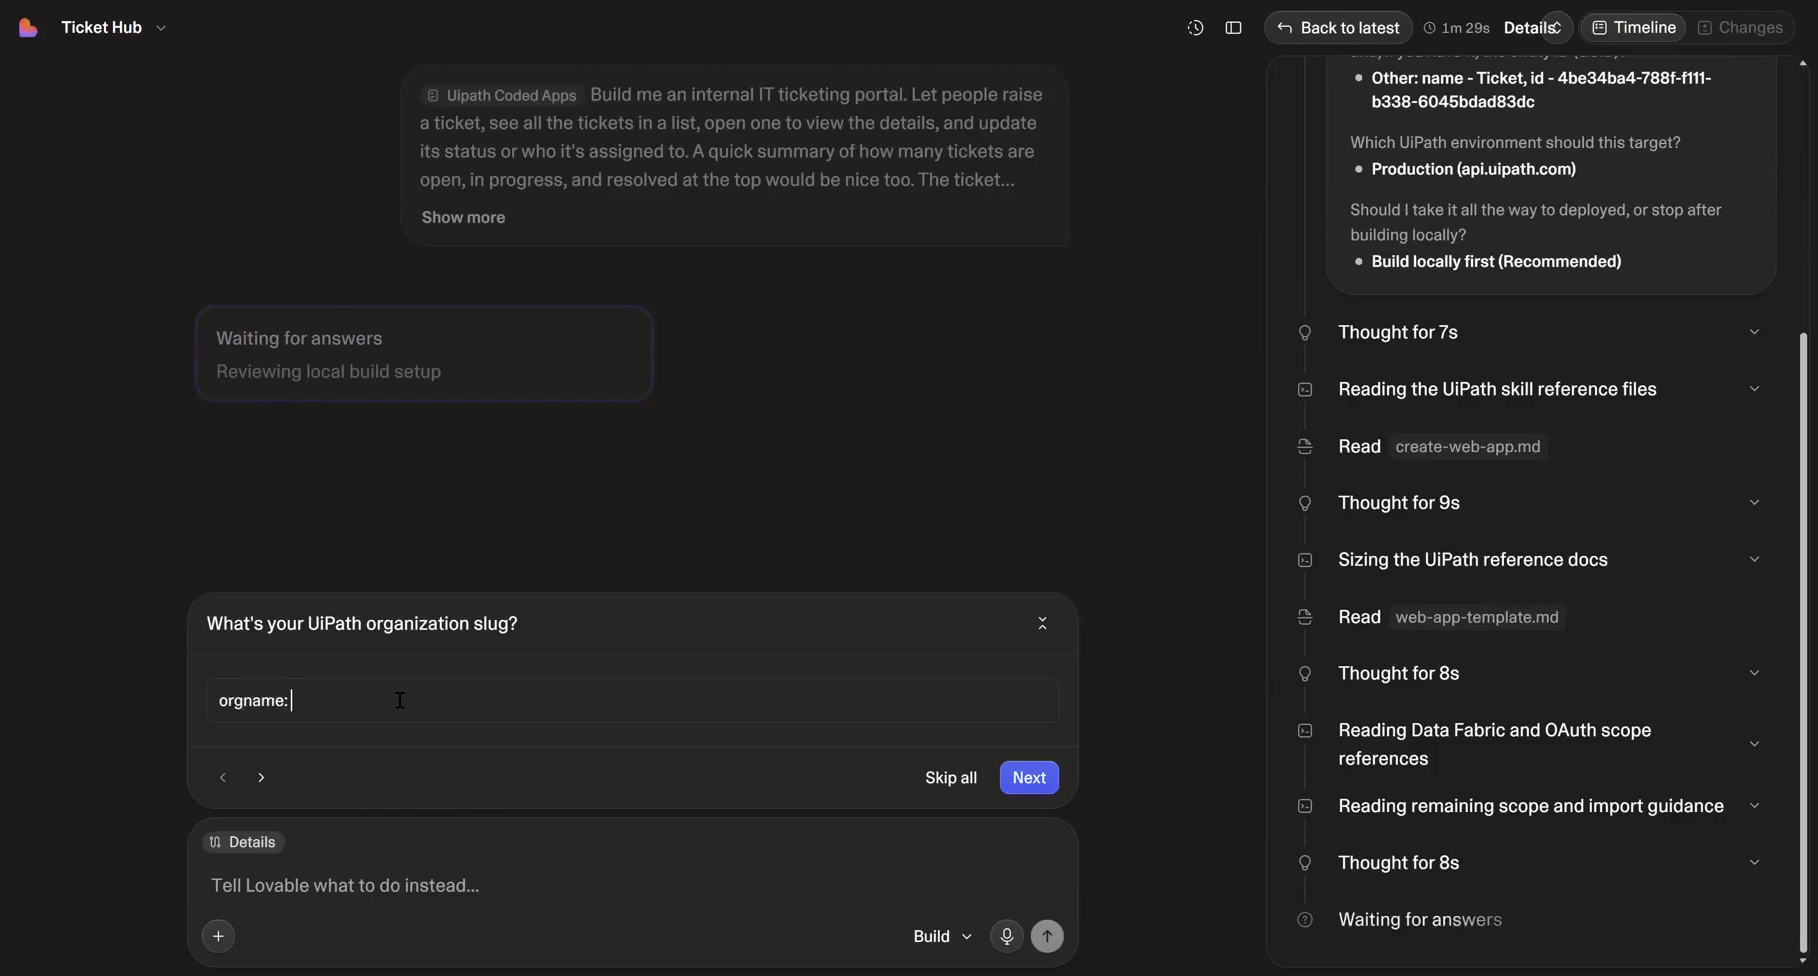
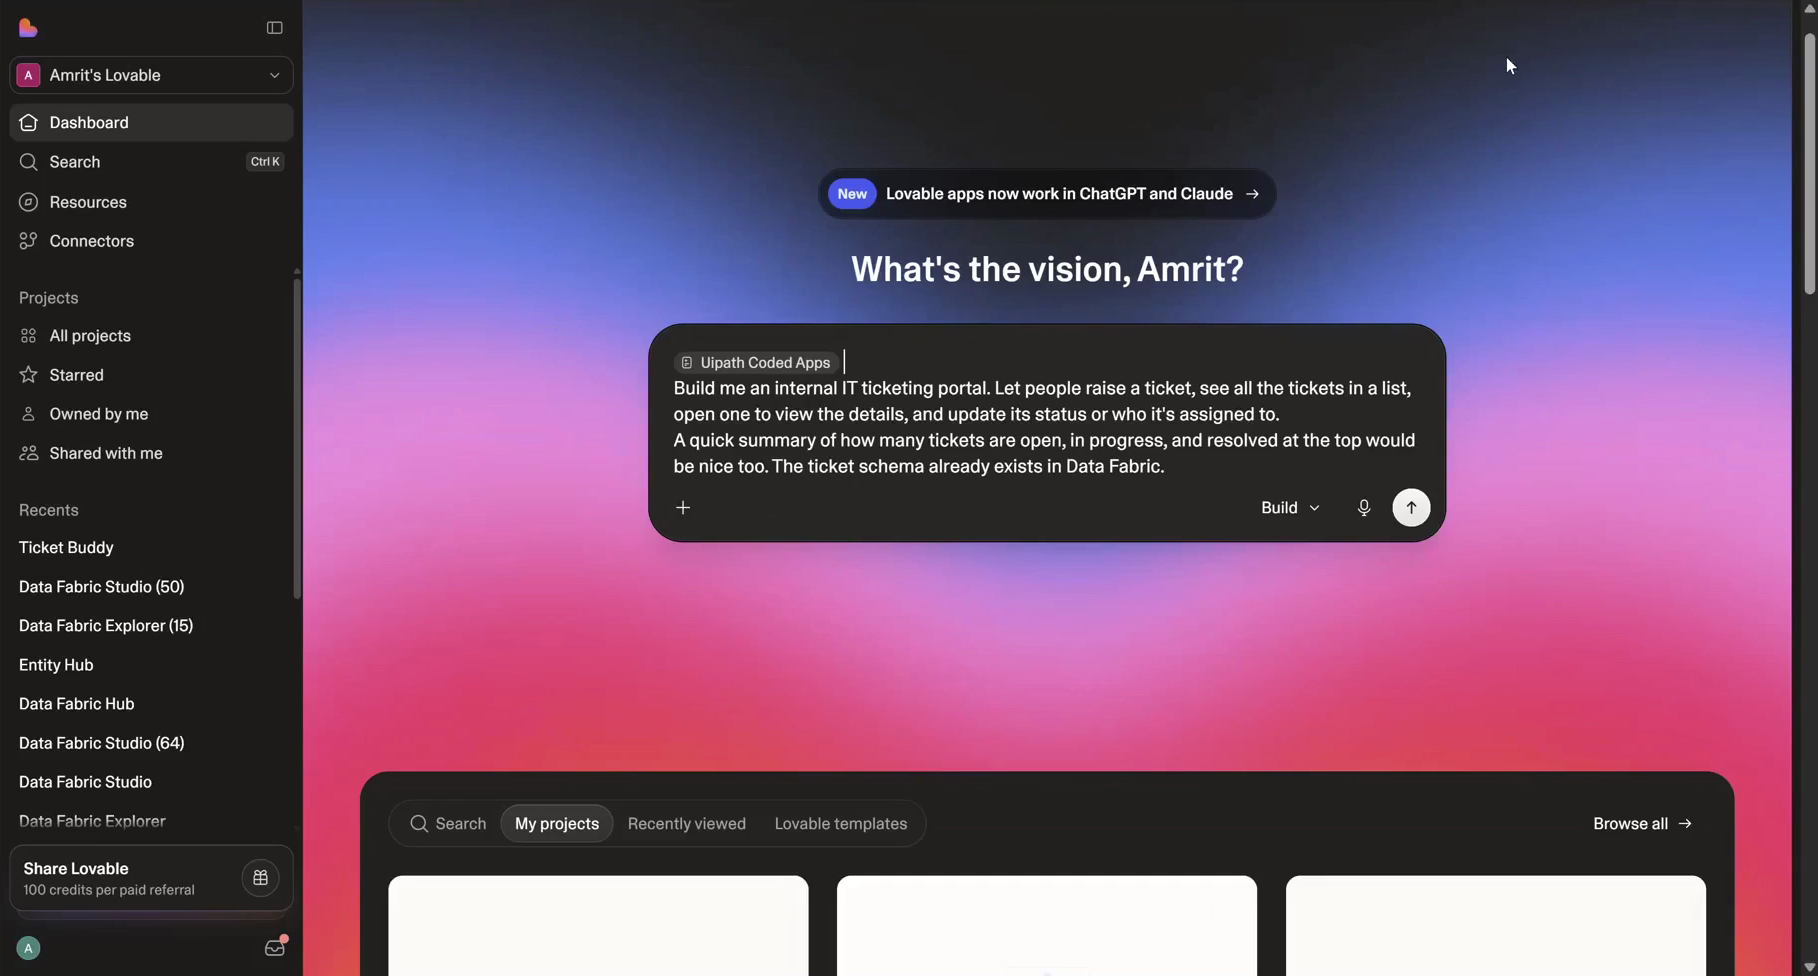
docs(ai-app-builders): drop templated build prompt, show the deployed app
The Step 2 prompt template ("Build a <app> as a UiPath coded app using the
uipath-coded-apps skill") isn't how any of the demos actually work — you
load the skill, then describe the app in plain language, which is what
every screenshot shows. Replace the code block with that instruction.

Also add the signed-in deployed app to Bolt, Replit and Lovable, which
previously ended at the deploy log; only Vercel showed the finished
result.

Swap the Lovable Step 2 screenshot for one showing the prompt with the
skill chip attached, rather than a mid-flow clarifying question.

diff --git a/docs/ai-app-builders/lovable.md b/docs/ai-app-builders/lovable.md
@@ -40,15 +40,11 @@ Use the UiPath coded-apps skill at https://github.com/UiPath/skills/blob/main/sk
 
 ## Step 2 — Build your app
 
-Prompt Lovable to build your app — plain language is enough:
-
-```text
-Build a <describe your app> as a UiPath coded app using the uipath-coded-apps skill.
-```
+With the skill loaded, just describe the app you want in plain language — there is no special wording or UiPath boilerplate to add. The skill handles the coded-app scaffolding for you.
 
 The builder asks for the connection details it needs — organization, tenant, Data Fabric entity, and the public app's client ID — as it goes, so you don't supply them up front.
 
-![Lovable asking for the UiPath organization slug after the prompt is sent](../assets/ai-app-builders/lovable-prompt.png)
+![The prompt in Lovable with the skill chip and the app described in plain language](../assets/ai-app-builders/lovable-prompt.png)
 
 !!! warning "Must be a static SPA"
     Coded apps are static sites — the build must emit `index.html` at the **dist root**. The skill scaffolds this for you. If Lovable defaults to a **server-rendered** app (for example TanStack Start), switch it to a **static SPA** build (enable SPA mode) so `npm run build` emits `index.html` at the dist root — otherwise `uip codedapp pack` will reject it.
@@ -78,6 +74,10 @@ https://<org>.uipath.host/<app-name>
 ```
 
 ![Lovable reporting the app deployed to the Shared folder, with the live URL and each deploy step listed](../assets/ai-app-builders/lovable-deploy.png)
+
+Open that URL and sign in to see the finished app:
+
+![The deployed ticketing app running at its uipath.host URL, signed in and listing real tickets](../assets/ai-app-builders/lovable-deploy1.png)
 
 ---
 

diff --git a/docs/ai-app-builders/replit.md b/docs/ai-app-builders/replit.md
@@ -40,11 +40,7 @@ Use the UiPath coded-apps skill at https://github.com/UiPath/skills/blob/main/sk
 
 ## Step 2 — Build your app
 
-Prompt Replit to build your app — plain language is enough:
-
-```text
-Build a <describe your app> as a UiPath coded app using the uipath-coded-apps skill.
-```
+With the skill loaded, just describe the app you want in plain language — there is no special wording or UiPath boilerplate to add. The skill handles the coded-app scaffolding for you.
 
 The builder asks for the connection details it needs — organization, tenant, Data Fabric entity, and the public app's client ID — as it goes, so you don't supply them up front.
 
@@ -78,6 +74,10 @@ https://<org>.uipath.host/<app-name>
 ```
 
 ![Replit reporting pack, publish and deploy all succeeded, with the deployed portal running alongside it](../assets/ai-app-builders/replit-deploy.png)
+
+Open that URL and sign in to see the finished app:
+
+![The deployed ticketing app running at its uipath.host URL, signed in and listing real tickets](../assets/ai-app-builders/replit-deploy1.png)
 
 !!! tip "Alternative — run the deploy yourself"
     If prompting gives you trouble (secrets not visible to the shell, agent stuck mid-deploy), open the **Shell** and run the same steps by hand:

diff --git a/docs/ai-app-builders/bolt.md b/docs/ai-app-builders/bolt.md
@@ -56,11 +56,7 @@ Use the UiPath coded-apps skill at https://github.com/UiPath/skills/blob/main/sk
 
 ## Step 2 — Build your app
 
-Prompt Bolt to build your app — plain language is enough:
-
-```text
-Build a <describe your app> as a UiPath coded app using the uipath-coded-apps skill.
-```
+With the skill loaded, just describe the app you want in plain language — there is no special wording or UiPath boilerplate to add. The skill handles the coded-app scaffolding for you.
 
 The builder asks for the connection details it needs — organization, tenant, Data Fabric entity, and the public app's client ID — as it goes, so you don't supply them up front.
 
@@ -99,6 +95,10 @@ https://<org>.uipath.host/<app-name>
 ```
 
 ![Bolt showing every deploy step checked off, the app URL, and the deployed app's sign-in screen](../assets/ai-app-builders/bolt-deploy.png)
+
+Open that URL and sign in to see the finished app:
+
+![The deployed ticketing app running at its uipath.host URL, signed in and listing real tickets](../assets/ai-app-builders/bolt-deploy1.png)
 
 !!! tip "Alternative — run the deploy yourself"
     If prompting gives you trouble (agent stuck mid-deploy, `.env` not picked up), open Bolt's **terminal** and run the same steps by hand:
